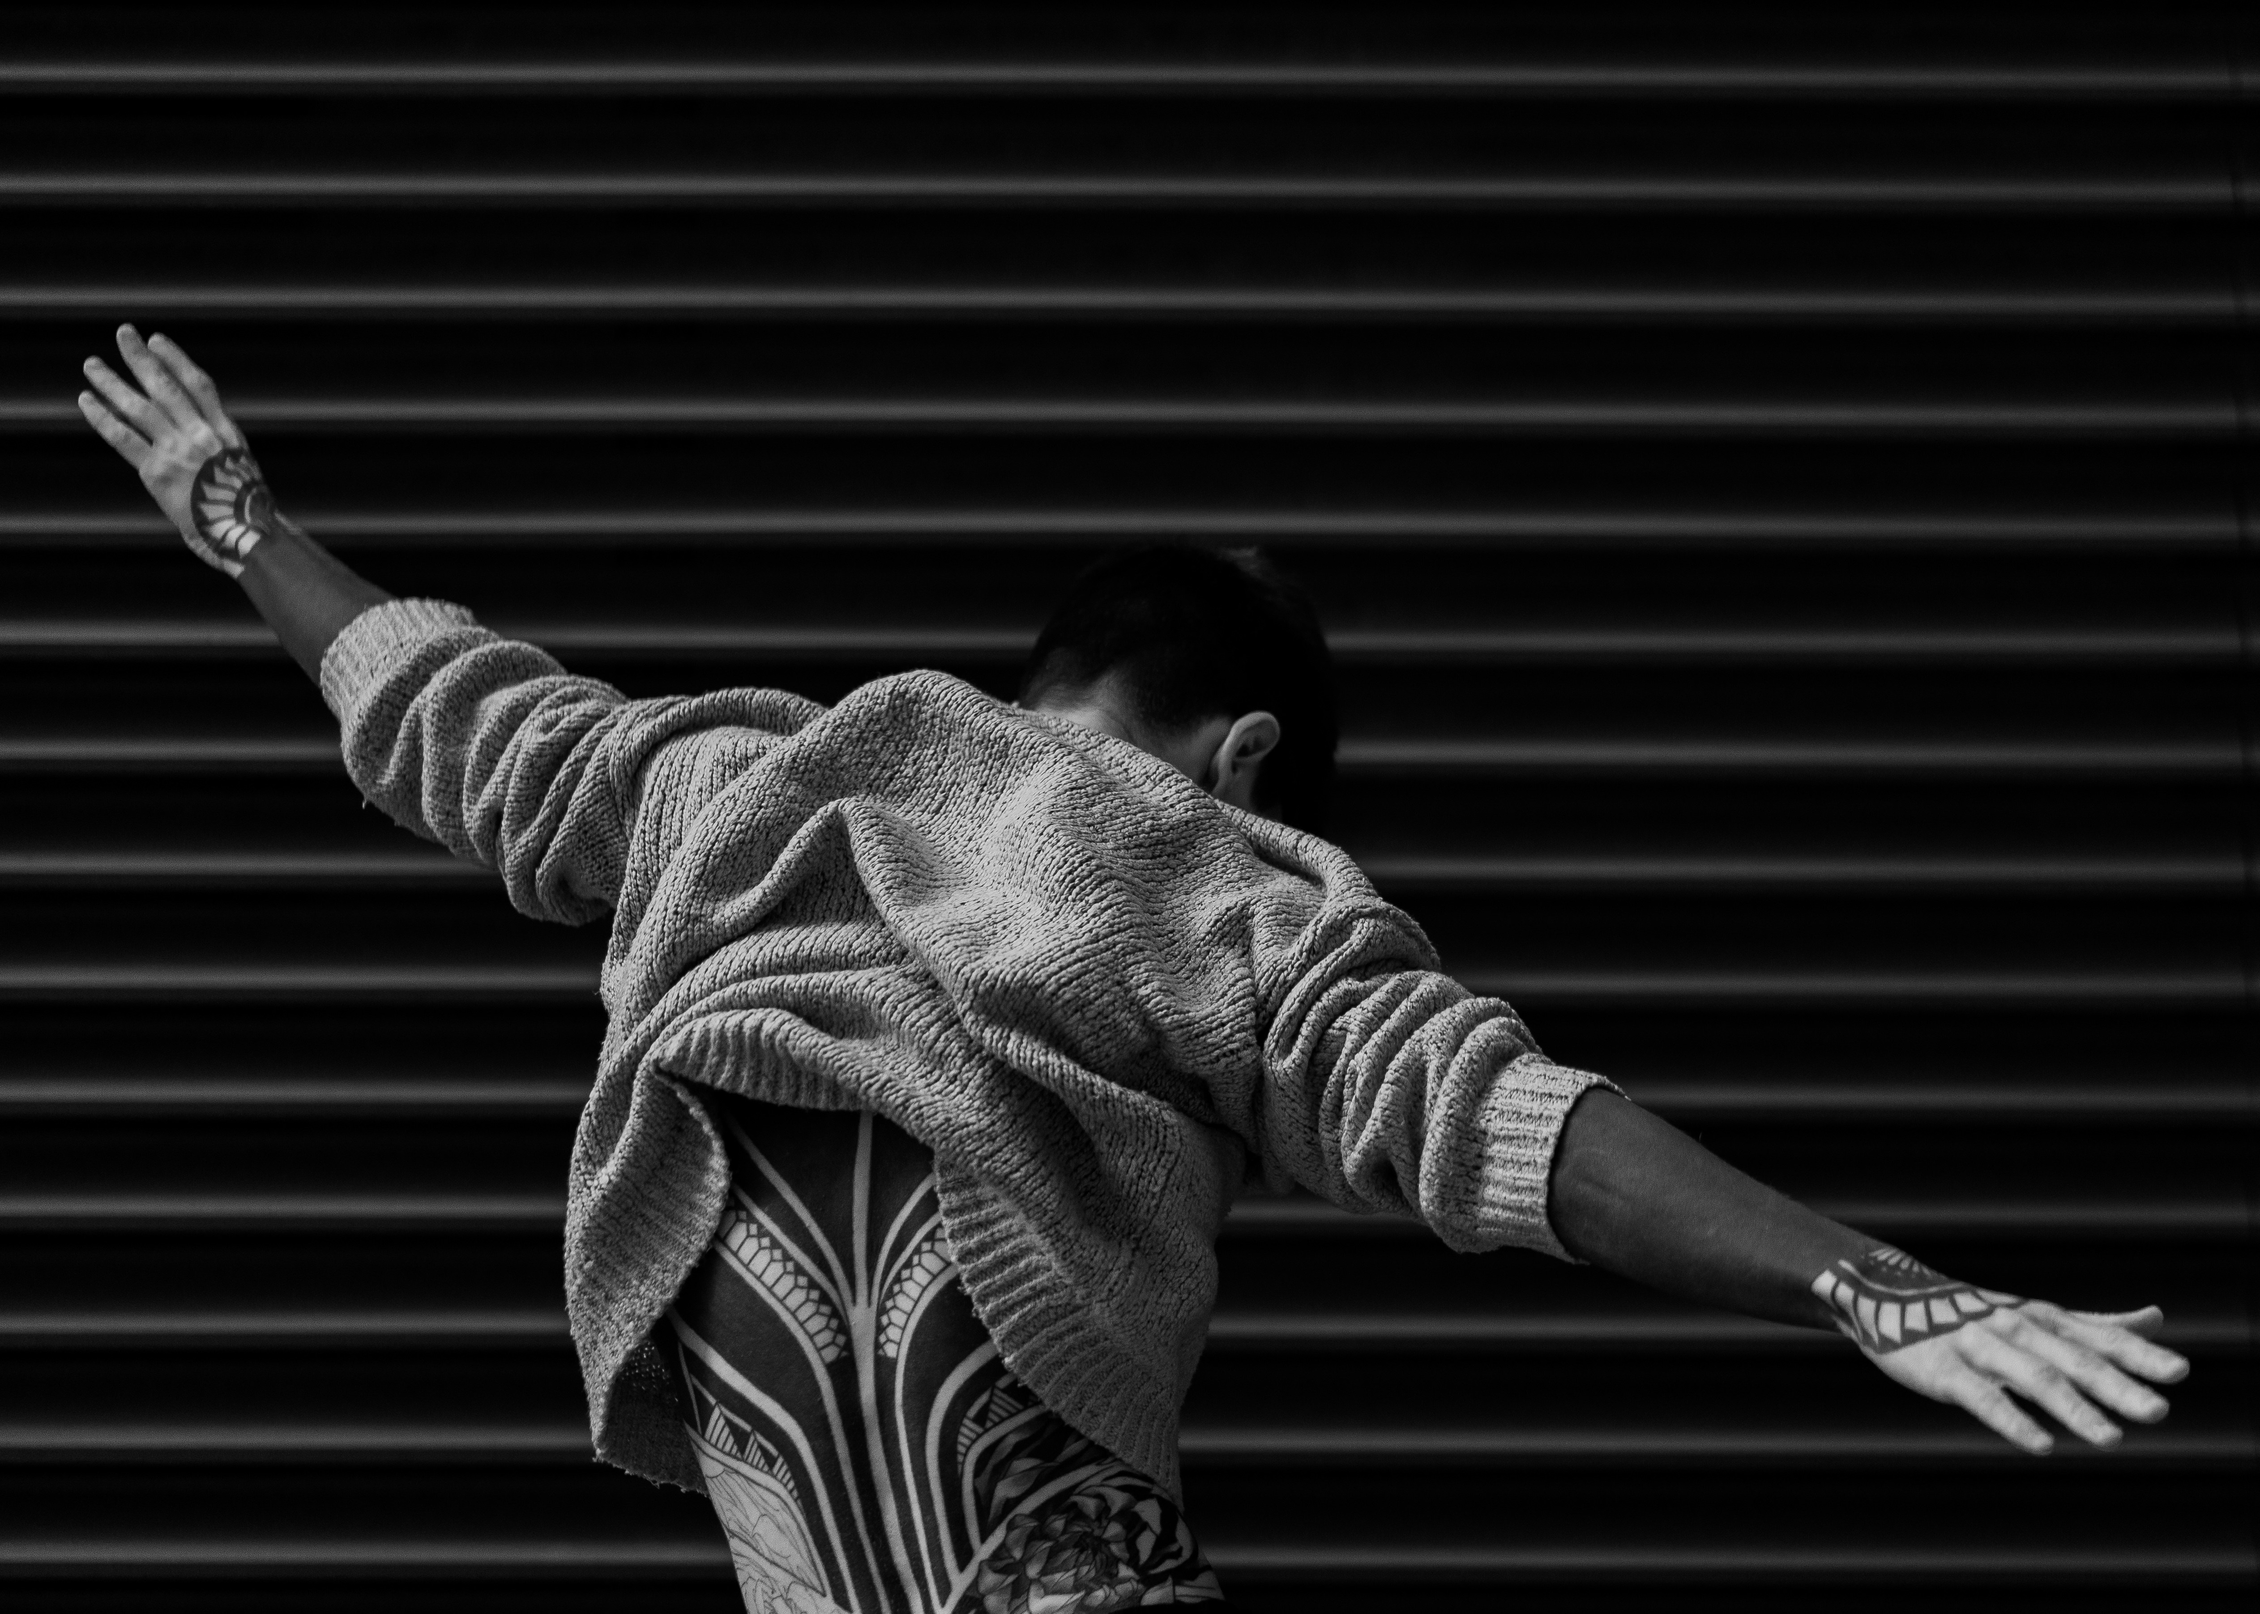
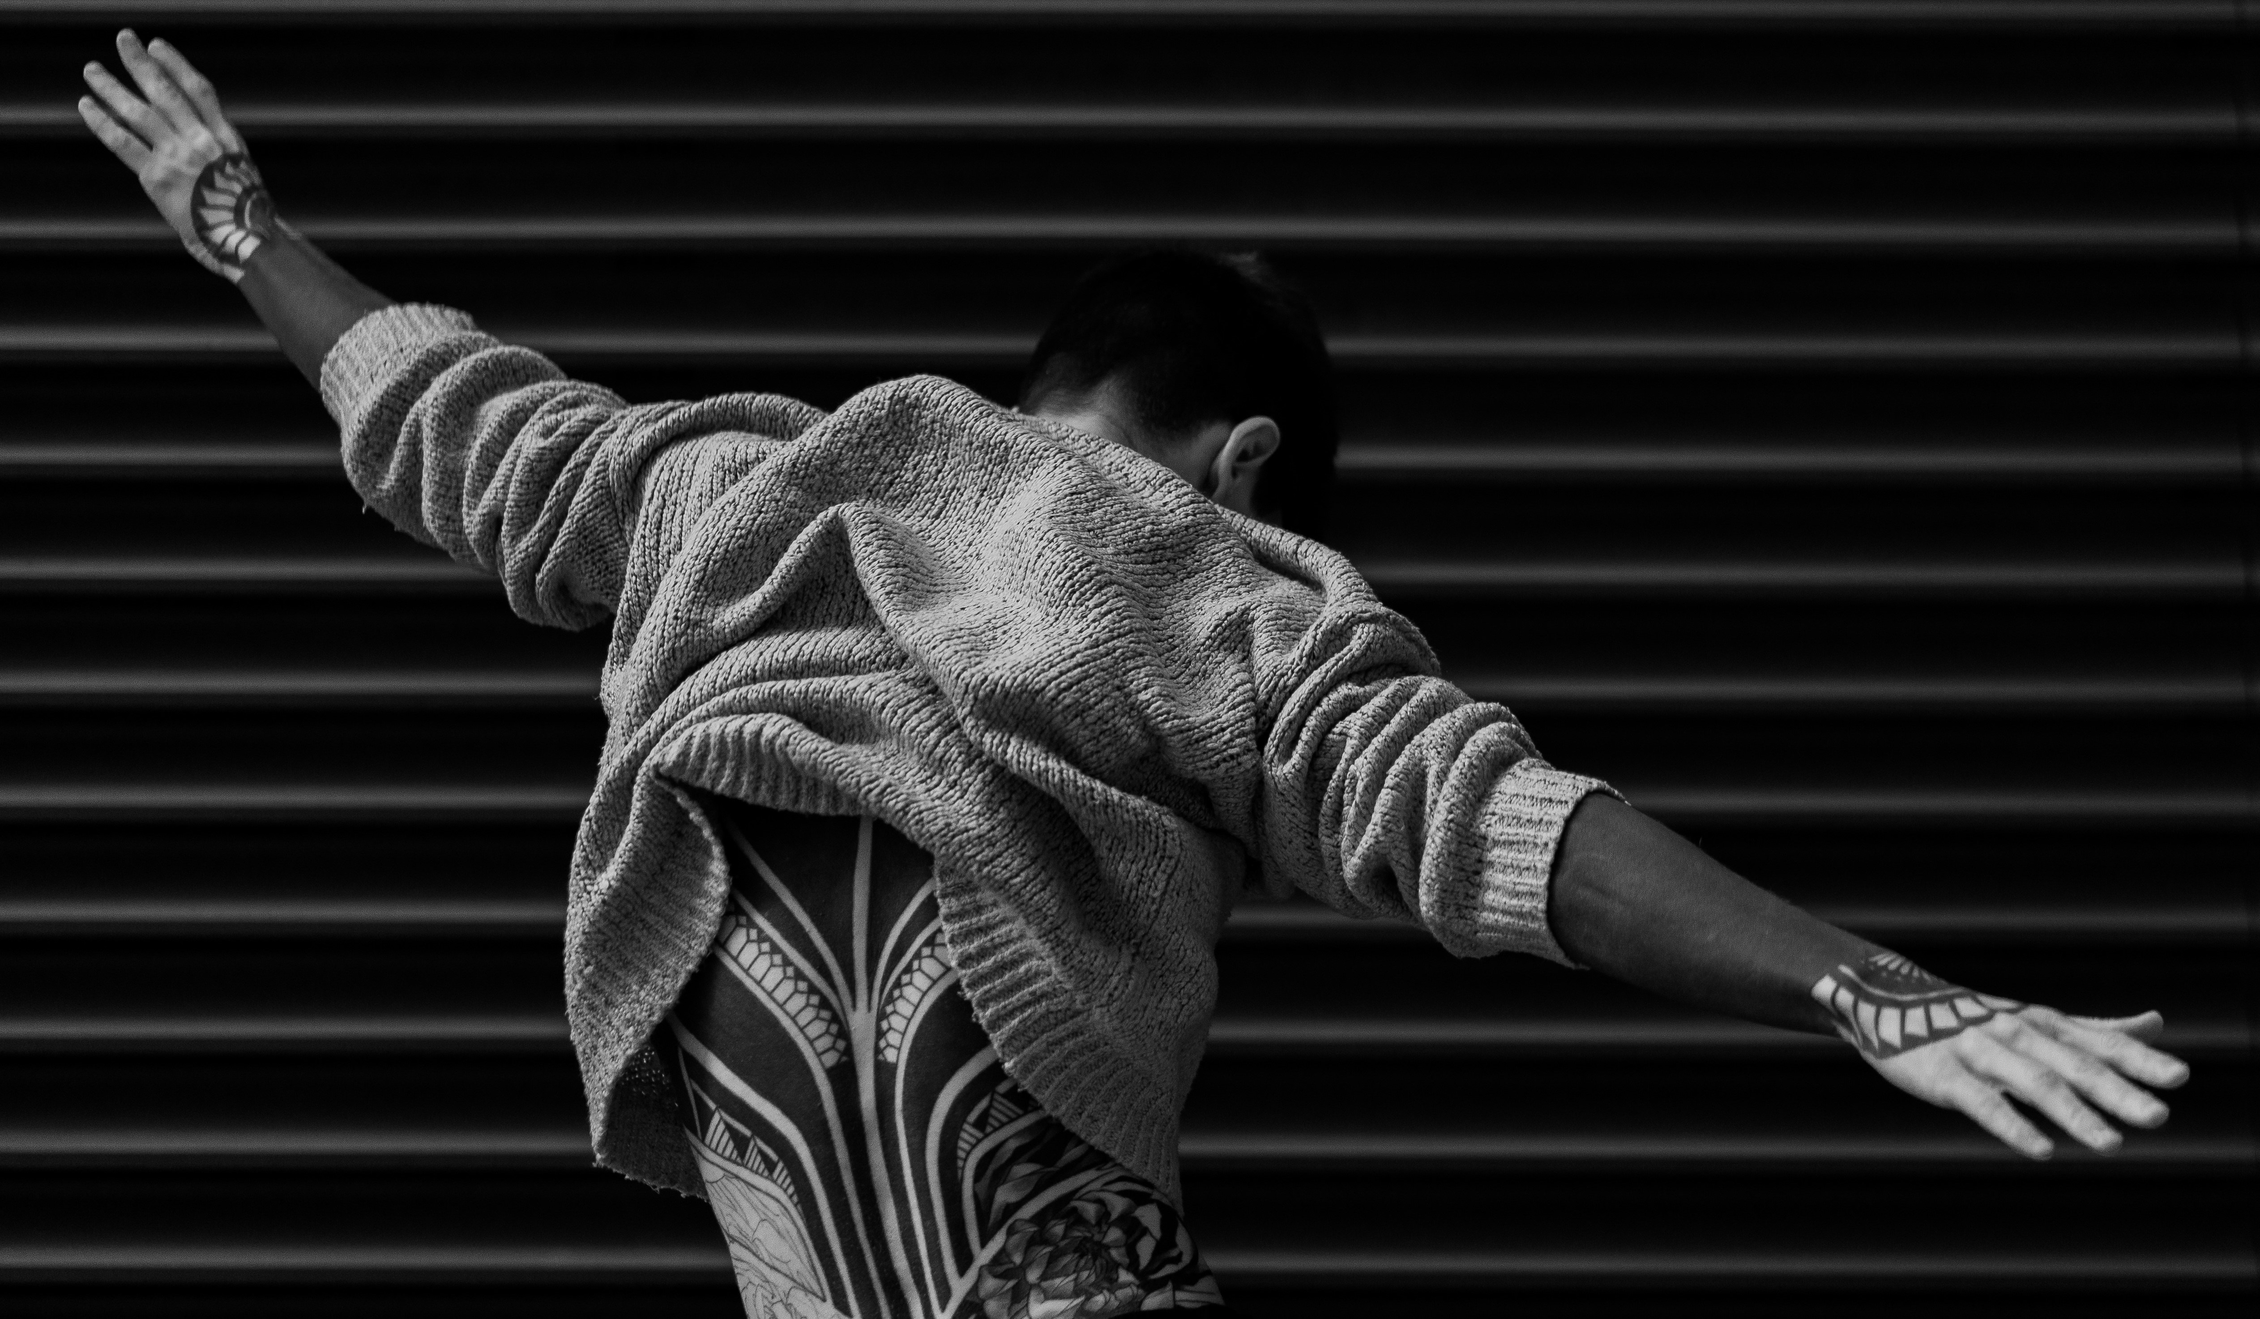
Update hero background image and remove Gallery section index

diff --git a/src/components/GallerySection.jsx b/src/components/GallerySection.jsx
@@ -1,17 +1,10 @@
-import { useState } from 'react'
-// gallery data
 import { galleryData } from '../data'
-// photo album
 import { PhotoAlbum } from 'react-photo-album'
-// framer motion
 import { motion } from 'framer-motion'
-// animation
 import { fadeIn } from '../variants'
 
 export default function GallerySection() {
-  // index state
-  const [index, setIndex] = useState(-1)
-  // destructure gallery data
+
   const { title, images } = galleryData
 
   return (
@@ -37,10 +30,8 @@ export default function GallerySection() {
         <PhotoAlbum
           photos={images}
           layout="rows"
-          onClick={(event, photo, index) => setIndex(index)}
         />
       </motion.div>
-      {/* btn */}
     </section>
   )
 }
